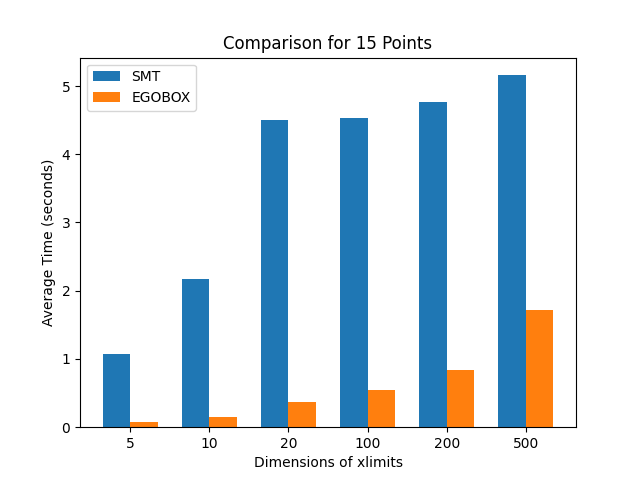
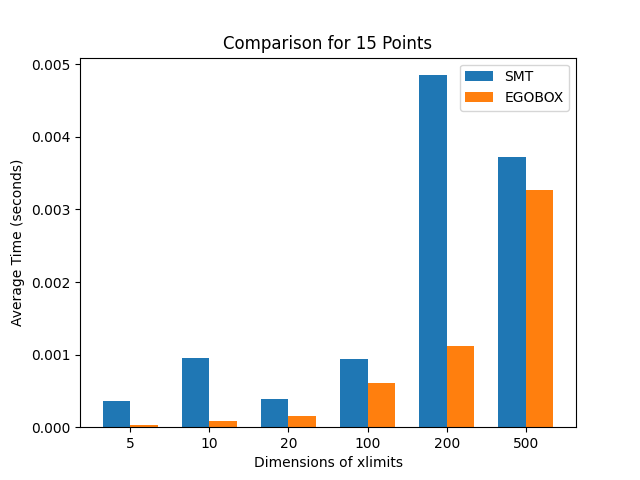
add lhs centered comparison

diff --git a/bench_centered.py b/bench_centered.py
@@ -1,0 +1,30 @@
+from benchmark import run_benchmark, write_to_csv
+from diagram_creator import sort_dimensions, create_chart, read_from_csv
+from smt.sampling_methods import LHS
+import egobox as egx
+import time
+
+start = time.time()
+LIBRARIES = ["SMT", "EGOBOX"]
+data = {"SMT": {}, "EGOBOX": {}}
+# NB_POINTS = [10, 50, 100, 250, 500, 1000]
+NB_POINTS = [10, 13, 15]
+
+
+def smt_lhs_centered(xlimits, num_points):
+    sampling = LHS(xlimits=xlimits, criterion="center")
+    sampling(num_points)
+
+
+def egobox_lhs_centered(xlimits, num_points):
+    xspecs = egx.to_specs(xlimits)
+    egx.sampling(egx.Sampling.LHS_CENTERED, xspecs, num_points)
+
+
+ALGOS = {"SMT": smt_lhs_centered, "EGOBOX": egobox_lhs_centered}
+
+if __name__ == "__main__":
+    write_to_csv("results_benchmark_centered.csv", run_benchmark(LIBRARIES, ALGOS))
+    read_from_csv("results_benchmark_centered.csv")
+    create_chart(sort_dimensions())
+    print(f"{time.time() - start} seconds")
